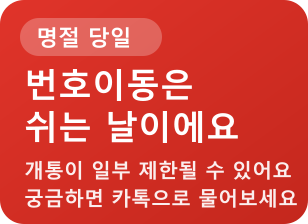
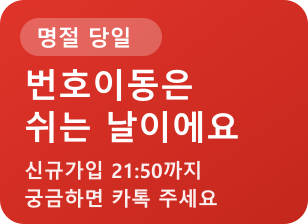
Blog 'today' widget: switch by KST time (before open, new only, both open, number-port closed, done for the day) instead of by date

Changed region(s): [[0.0584, 0.7188, 0.7305, 0.8125], [0.4968, 0.8438, 0.9643, 0.9375], [0.7597, 0.7188, 0.9643, 0.8125]]

diff --git a/functions/blog-widgets/today.js b/functions/blog-widgets/today.js
@@ -1,6 +1,7 @@
-// 네이버 블로그 사이드 위젯용 "오늘 번호이동 접수돼요?" 그림을 한국 날짜에 맞춰 보여 줍니다.
-// 주소: /blog-widgets/today  (그림 3장은 public/blog-widgets/today-*.png, naver-drafts/tools/make-today-widgets.cjs 로 만듦)
-// 번호이동은 일요일과 신정, 설, 추석 당일에 접수되지 않습니다(사이트 글 self-activation-time-over 기준).
+// 네이버 블로그 사이드 위젯용 "지금 접수돼요?" 그림을 한국 시각에 맞춰 보여 줍니다.
+// 주소: /blog-widgets/today  (그림은 public/blog-widgets/today-*.png, naver-drafts/tools/make-today-widgets.cjs 로 만듦)
+// 접수 시간은 사이트 글 self-activation-time-over 기준입니다.
+// 신규가입 08:00~21:50, 번호이동 10:00~19:50, 번호이동은 일요일과 신정, 설, 추석 당일에 접수되지 않습니다.
 
 // 설, 추석 당일. 매년 초에 다음 해 날짜를 확인해서 더해 주세요. (2028년 추석은 정부 발표 후 다시 확인)
 const HOLIDAYS = new Set([
@@ -9,13 +10,27 @@ const HOLIDAYS = new Set([
 	'2028-01-27', '2028-10-03',
 ]);
 
-/** 한국 시각 기준으로 오늘 보여 줄 그림 이름 */
-export function todayState(now = new Date()) {
-	const kst = new Date(now.getTime() + 9 * 60 * 60 * 1000);
+/** 번호이동을 받지 않는 날(일요일, 신정, 설, 추석 당일)이면 그 이름 */
+function restDay(kst) {
 	const ymd = kst.toISOString().slice(0, 10);
 	if (ymd.endsWith('-01-01') || HOLIDAYS.has(ymd)) return 'holiday';
 	if (kst.getUTCDay() === 0) return 'sunday';
-	return 'open';
+	return null;
+}
+
+/** 한국 시각 기준으로 지금 보여 줄 그림 이름 */
+export function todayState(now = new Date()) {
+	const kst = new Date(now.getTime() + 9 * 60 * 60 * 1000);
+	const min = kst.getUTCHours() * 60 + kst.getUTCMinutes();
+	const rest = restDay(kst);
+	const tomorrowRest = restDay(new Date(kst.getTime() + 24 * 60 * 60 * 1000));
+	const NEW_OPEN = 8 * 60, NEW_CLOSE = 21 * 60 + 50, MOVE_OPEN = 10 * 60, MOVE_CLOSE = 19 * 60 + 50;
+	if (min >= NEW_CLOSE) return tomorrowRest ? 'night-rest' : 'night';
+	if (rest) return min < NEW_OPEN ? `${rest}-early` : rest;
+	if (min < NEW_OPEN) return 'early';
+	if (min < MOVE_OPEN) return 'morning';
+	if (min < MOVE_CLOSE) return 'open';
+	return 'evening';
 }
 
 export async function onRequest({ request, env }) {
@@ -25,7 +40,7 @@ export async function onRequest({ request, env }) {
 		status: res.status,
 		headers: {
 			'Content-Type': 'image/png',
-			// 날짜가 바뀌면 바로 다른 그림이 나오도록 저장해 두지 않게 합니다.
+			// 시각이 바뀌면 바로 다른 그림이 나오도록 저장해 두지 않게 합니다.
 			'Cache-Control': 'no-store, max-age=0',
 		},
 	});
